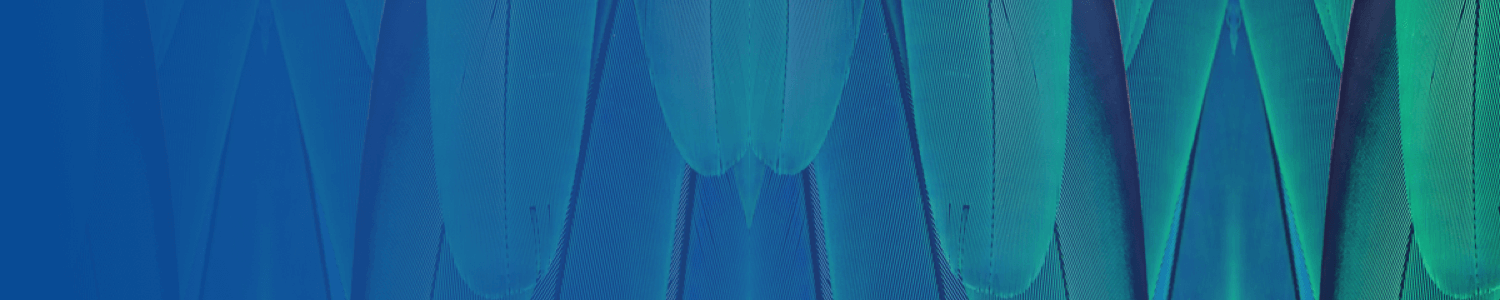
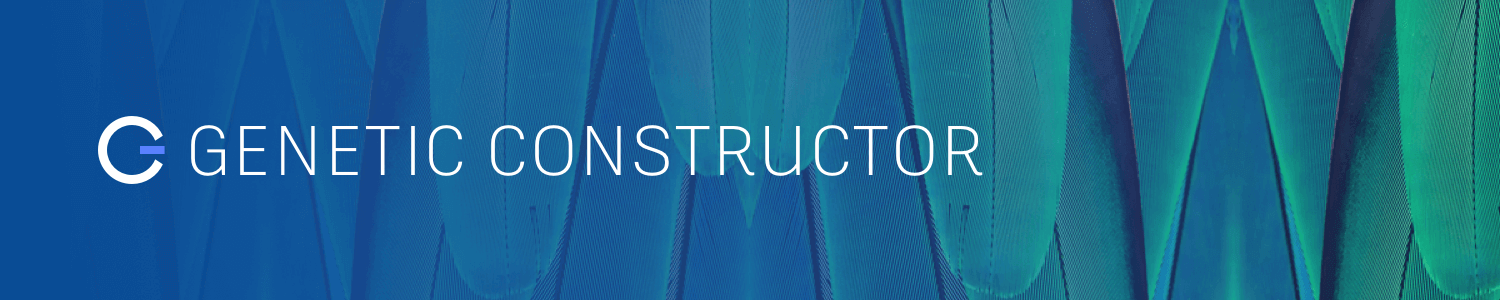
rm SVGs from email address verify emails

Changed region(s): [[0.0613, 0.39, 0.6747, 0.63]]

diff --git a/emails/email-verify.html b/emails/email-verify.html
@@ -158,7 +158,6 @@
                                                     <td width="750" style="min-width: 750px; ">
                                                         <div class="layout-block-image" style="position: relative">
                                                             <img width="750" height="145" alt="" eqid="EQMST-78881311-B35D-4581-BC36-A9E75C12C4B9" src="**HOST_URL**/images/emails/image-1.png" border="0" style="width: 750px; height: 145px; display: block; ">
-                                                            <img src="**HOST_URL**/images/emails/headerDesk.svg" border="0" style="width: 400px; height: auto; position:absolute; top:45px; left: 50px;  ">
                                                         </div>
                                                     </td>
                                                 </tr>
@@ -178,7 +177,6 @@
                                                     <td width="320" style="min-width: 320px;">
                                                         <div class="layout-block-image hide" style="display: none; max-height: 0px; overflow: hidden; position: relative;">
                                                             <img width="320" height="170" alt="" eqid="EQMST-7CBD078E-22CC-4FE7-AA41-3687CAD1041F" src="**HOST_URL**/images/emails/image-3.png" border="0" style="display: none; max-height: 0px; overflow: hidden; width: 320px; height: 170px; " class="hide">
-                                                            <img src="**HOST_URL**/images/emails/headerPhone.svg" border="0" style="width: 250px; height: auto; top:36px; left: 30px; position: absolute;">
                                                         </div>
                                                     </td>
                                                 </tr>
